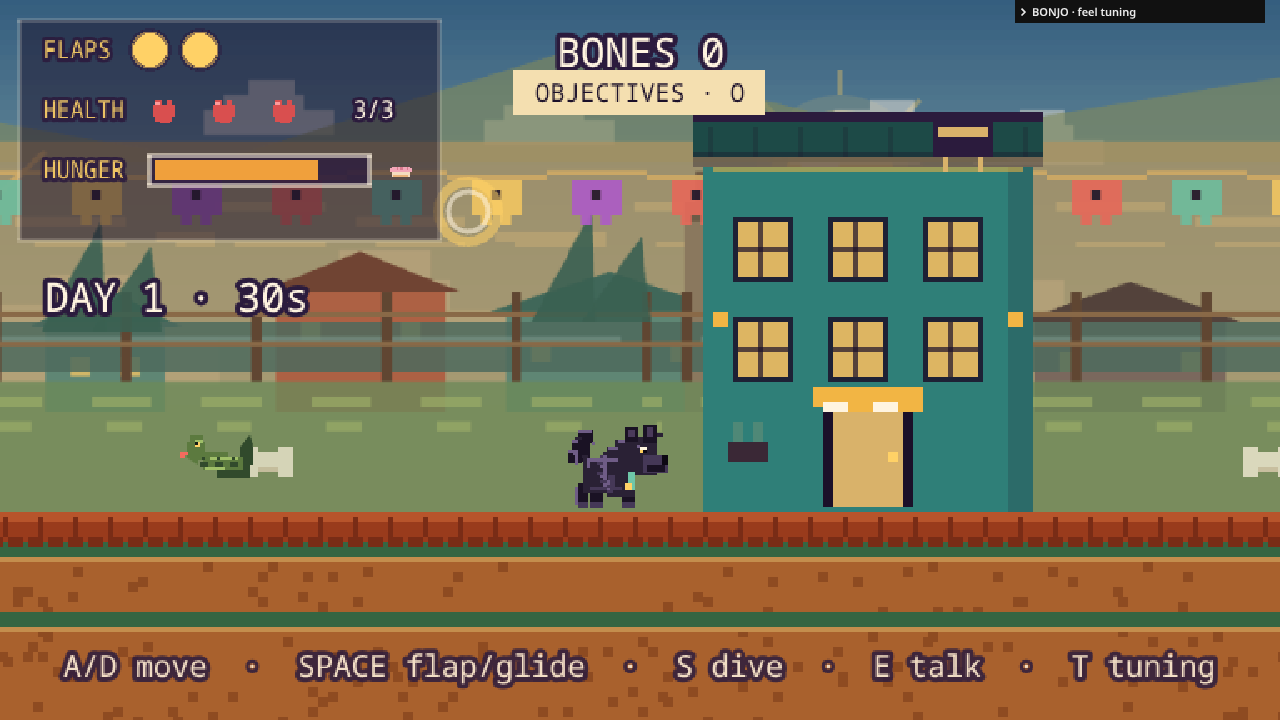
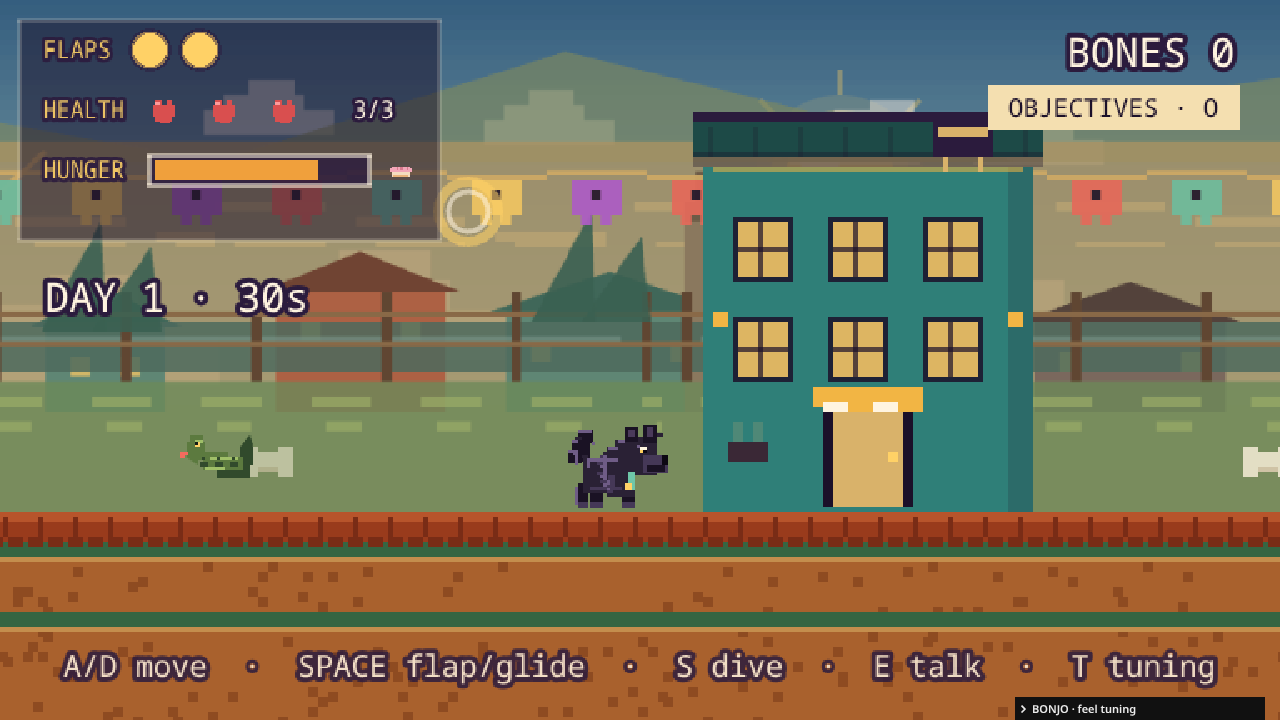
Move bone counter and objectives menu to the top-right HUD

diff --git a/src/scenes/Level1.js b/src/scenes/Level1.js
@@ -235,9 +235,10 @@ export default class Level1 extends Phaser.Scene {
     this.envHaze?.setPosition(W / 2, 72 * S).setSize(W, 144 * S);
     this.nightOverlay?.setPosition(W / 2, 72 * S).setSize(W, 144 * S);
 
-    if (this.boneText) this.boneText.x = W / 2;
-    if (this.comboText) this.comboText.x = W / 2;
-    if (this.objectivesButton) this.objectivesButton.x = W / 2;
+    const hudRight = W - 8 * S;
+    if (this.boneText) this.boneText.x = hudRight;
+    if (this.comboText) this.comboText.x = hudRight;
+    if (this.objectivesButton) this.objectivesButton.x = hudRight;
     if (this.hint) this.hint.x = W / 2;
     if (this.introLabel?.active) this.introLabel.x = W / 2;
     if (this.phaseBanner?.active) this.phaseBanner.x = W / 2;
@@ -1456,26 +1457,26 @@ export default class Level1 extends Phaser.Scene {
     this.pips = this.add.graphics().setScrollFactor(0).setDepth(100);
 
     this.boneText = this.add
-      .text(W / 2, 5 * S, `${t('hud.bones')} 0`, {
+      .text(W - 8 * S, 5 * S, `${t('hud.bones')} 0`, {
         fontFamily: 'monospace',
         fontSize: 8 * S,
         color: '#fff4e0',
         stroke: '#2b1b3d',
         strokeThickness: 2 * S,
       })
-      .setOrigin(0.5, 0)
+      .setOrigin(1, 0)
       .setScrollFactor(0)
       .setDepth(100);
 
     this.comboText = this.add
-      .text(W / 2, 35 * S, '', {
+      .text(W - 8 * S, 31 * S, '', {
         fontFamily: 'monospace',
         fontSize: 7 * S,
         color: '#ffd166',
         stroke: '#2b1b3d',
         strokeThickness: 2 * S,
       })
-      .setOrigin(0.5, 0)
+      .setOrigin(1, 0)
       .setScrollFactor(0)
       .setDepth(100)
       .setVisible(false);
@@ -1759,8 +1760,8 @@ export default class Level1 extends Phaser.Scene {
 
     this.objectivesButton = this.add
       .text(
-        W / 2,
-        14 * S,
+        W - 8 * S,
+        17 * S,
         this.touch?.visible ? t('hud.objectivesTouch') : t('hud.objectives'),
         {
           fontFamily: 'monospace',
@@ -1769,7 +1770,7 @@ export default class Level1 extends Phaser.Scene {
           backgroundColor: '#f4dfb0',
         },
       )
-      .setOrigin(0.5, 0)
+      .setOrigin(1, 0)
       .setScrollFactor(0)
       .setDepth(160)
       .setInteractive({ useHandCursor: true });
@@ -1879,7 +1880,7 @@ export default class Level1 extends Phaser.Scene {
     this.objectivesH = h;
 
     this.objectivesButton
-      .setPosition(W / 2, 14 * S)
+      .setPosition(W - 8 * S, 17 * S)
       .setText(
         this.touch?.visible ? t('hud.objectivesTouch') : t('hud.objectives'),
       );
@@ -1982,6 +1983,9 @@ export default class Level1 extends Phaser.Scene {
   createTuningPanel() {
     const gui = new GUI({ title: t('tuning.title') });
     this.gui = gui;
+    // Keep the live tuning panel out of the top-right HUD cluster.
+    gui.domElement.style.top = 'auto';
+    gui.domElement.style.bottom = '0';
 
     const move = gui.addFolder(t('tuning.movement'));
     move.add(tuning, 'runSpeed', 80, 500, 5).name(t('tuning.runSpeed'));

diff --git a/README.md b/README.md
@@ -114,7 +114,7 @@ On a touch device the on-screen controls appear automatically:
 - **bottom-left:** ◀ ▶ run (slide between them without lifting)
 - **bottom-right:** ▲ flap (hold to glide), ▼ dive
 - **bottom-center:** 💬 interact when a friendly NPC or quest object is in range
-- **top-center:** tap **OBJETIVOS / OBJECTIVES** to pause and review the goal, errands and what each HUD meter means
+- **top-right:** the bone counter and **OBJETIVOS / OBJECTIVES** menu; tap the menu to pause and review the goal, errands and what each HUD meter means
 - On the **map**, tap a landmark to inspect it, then tap **JUGAR / PLAY**.
 - On the end screen, **tap anywhere** to replay; the **MAPA / MAP** button returns to the hub.
 - Multi-touch works, so you can run and flap at the same time.
@@ -141,7 +141,7 @@ rank.
 
 ## The tuning panel (the important part)
 
-Press **T**, or click the `BONJO · feel tuning` bar in the top-right.
+Press **T**, or click the `BONJO · feel tuning` bar in the bottom-right.
 
 While playing, drag any slider and *feel* the difference immediately. This is
 how platformer game feel is actually designed: change one number, play for ten
